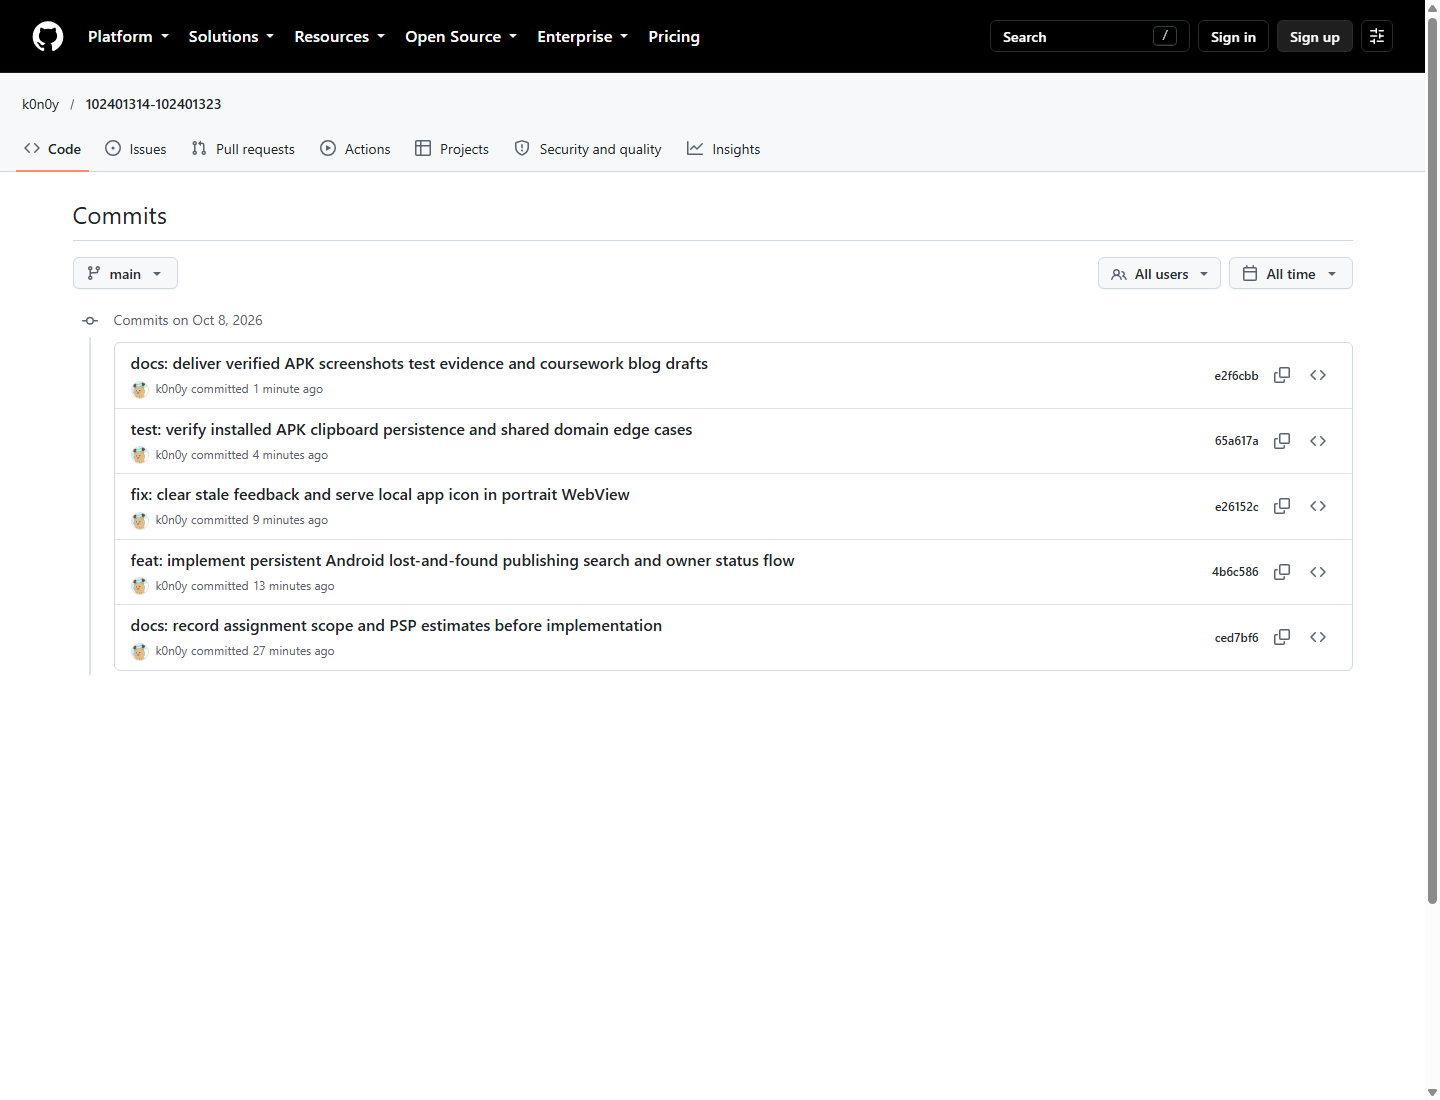
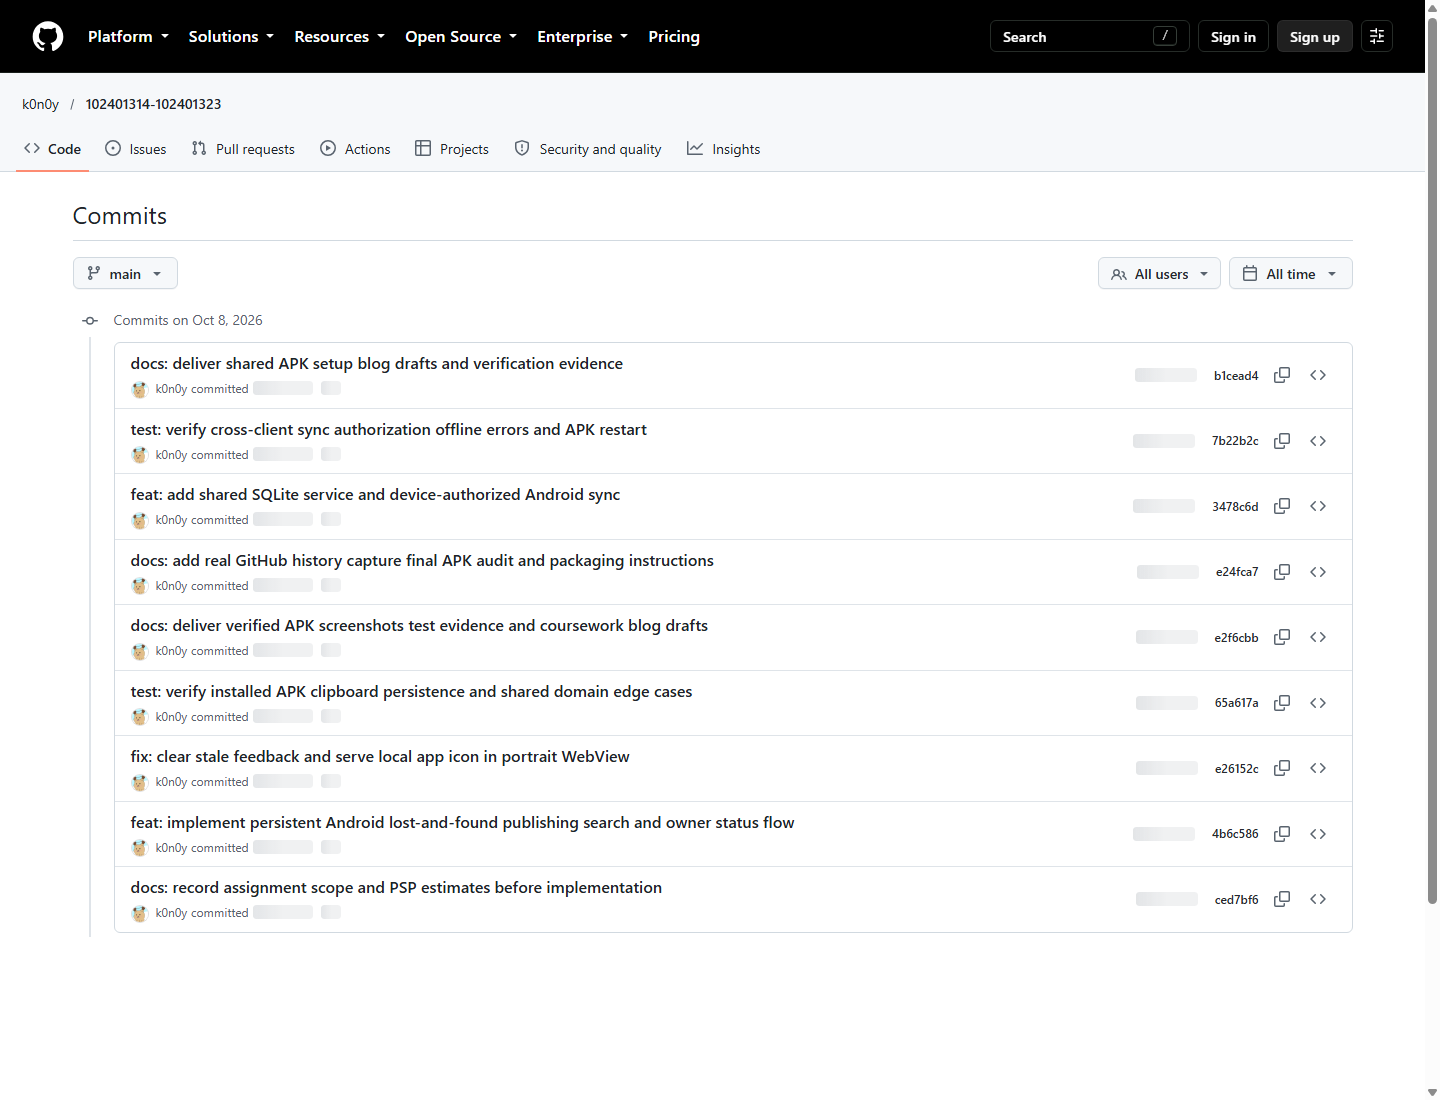
docs: refresh published commit evidence and final shared workflow

diff --git a/scripts/make_diagrams.py b/scripts/make_diagrams.py
@@ -51,7 +51,7 @@ box(d,1240,580,'写入失败\n保留输入，提示重试',fill='#fff0e8')
 arrow(d,[(1400,455),(1400,580)],'未保存')
 arrow(d,[(1240,650),(1010,650),(1010,455)],'不显示成功')
 d.text((70,830),'找回 / 归还之后',font=font(34),fill=teal)
-row=['详情查看联系方式\n复制后在应用外联系','发布者进入\n“我的发布”','服务核验 Bearer\n他人 403 拒绝','确认更新状态\n可取消，不改记录','SQLite 更新单条\n找到 / 归还 / 恢复','其他设备自动同步\n缓存和凭证保留']
+row=['详情查看联系方式\n复制后在应用外联系','发布者进入\n“我的发布”','确认更新状态\n可取消，不改记录','服务核验 Bearer\n他人 403 拒绝','SQLite 更新单条\n找到 / 归还 / 恢复','其他设备自动同步\n缓存和凭证保留']
 for x,t in zip(xs,row):box(d,x,950,t,fill='#e8f6f1' if x in [1240,2020] else 'white')
 for i in range(5):arrow(d,[(xs[i]+320,1022),(xs[i+1],1022)])
 d.text((70,1250),'共享范围：连接同一个服务的不同设备；断网只能读缓存，发布和状态修改不显示假成功。',font=font(29),fill=muted)

diff --git a/docs/blog_曾炜毅_待补本人记录.md b/docs/blog_曾炜毅_待补本人记录.md
@@ -169,6 +169,7 @@ assert.equal(result.status,403);
 [当前提交记录](https://github.com/k0n0y/102401314-102401323/commits/main/)。材料生成时的真实Git记录如下，后续提交以仓库为准：
 
 ```text
+b1cead4 docs: deliver shared APK setup blog drafts and verification evidence
 7b22b2c test: verify cross-client sync authorization offline errors and APK restart
 3478c6d feat: add shared SQLite service and device-authorized Android sync
 e24fca7 docs: add real GitHub history capture final APK audit and packaging instructions

diff --git a/docs/blog_陈勇昊_待补本人记录.md b/docs/blog_陈勇昊_待补本人记录.md
@@ -169,6 +169,7 @@ assert.equal(result.status,403);
 [当前提交记录](https://github.com/k0n0y/102401314-102401323/commits/main/)。材料生成时的真实Git记录如下，后续提交以仓库为准：
 
 ```text
+b1cead4 docs: deliver shared APK setup blog drafts and verification evidence
 7b22b2c test: verify cross-client sync authorization offline errors and APK restart
 3478c6d feat: add shared SQLite service and device-authorized Android sync
 e24fca7 docs: add real GitHub history capture final APK audit and packaging instructions
